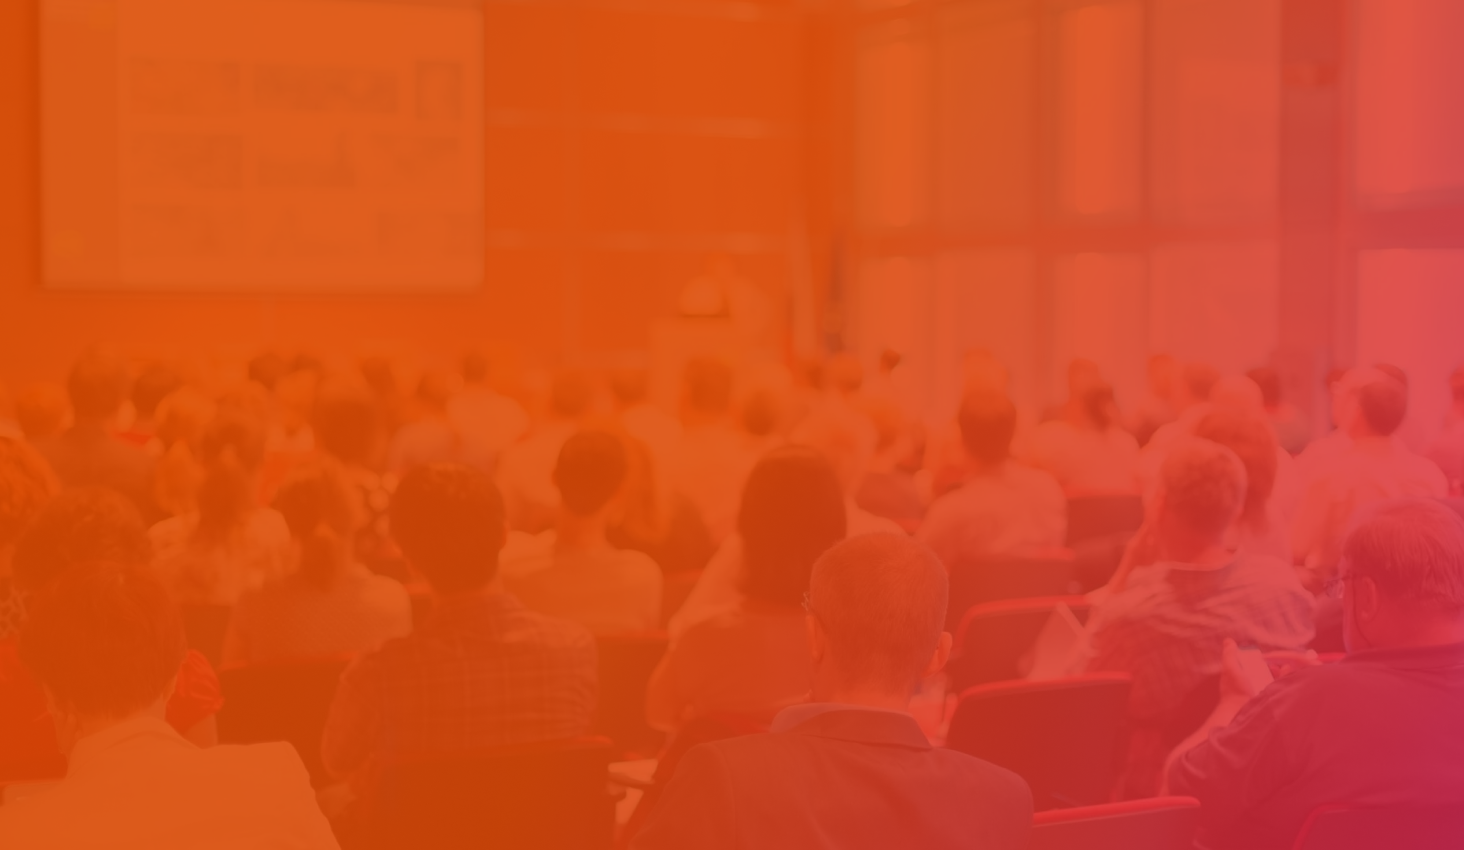
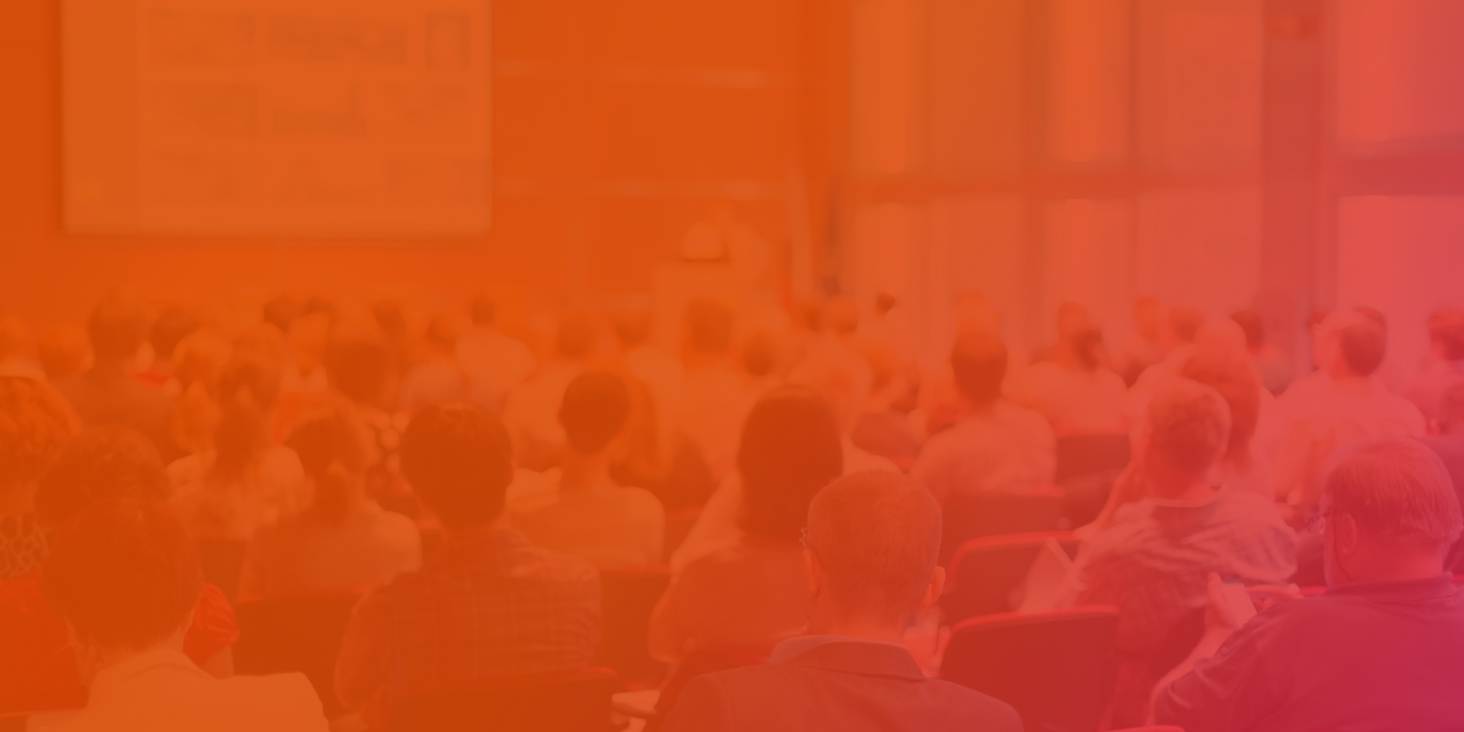
styles: add teachers

diff --git a/index.html b/index.html
@@ -35,7 +35,7 @@
 
     <main>
       <section id="intro">
-        <div class="intro-content" >
+        <div class="intro-content">
           <div>
             <h2>Semana da Computação</h2>
             <h1>Explorando a inovação</h1>
@@ -49,6 +49,47 @@
           <img src="./images/image-intro.png" alt="" />
         </div>
       </section>
+
+      <section id="teachers">
+        <div class="teachers-content" >
+          <h2>Conheça um pouco dos palestrantes </h2>
+          <h1>PROFESSORES ESPECIALIZADOS</h1>
+
+          <div class="all-teachers" >
+            <div class="card-teacher">
+              <img src="./images/cido.png" alt="">
+
+              <div class="teacher-content" >
+                <strong>APARECIDO SILVA</strong>
+                <p>Especialista em programação</p>
+                <p>Compentencias: C, Javascript</p>
+              </div>
+            </div>
+
+            <div class="card-teacher">
+              <img src="./images/cido.png" alt="">
+
+              <div class="teacher-content" >
+                <strong>APARECIDO SILVA</strong>
+                <p>Especialista em programação</p>
+                <p>Compentencias: C, Javascript</p>
+              </div>
+            </div>
+
+            <div class="card-teacher">
+              <img src="./images/cido.png" alt="">
+
+              <div class="teacher-content" >
+                <strong>APARECIDO SILVA</strong>
+                <p>Especialista em programação</p>
+                <p>Compentencias: C, Javascript</p>
+              </div>
+            </div>
+          </div>
+        </div>
+      </section>
+
+      <img class="image-background" src="./images/image-background-intro.png" alt="">
     </main>
   </body>
 </html>

diff --git a/styles/styles.css b/styles/styles.css
@@ -1,7 +1,12 @@
-body {
-    background-image: url("../images/image-background-intro.png");
-    background-repeat: no-repeat;
-    background-size: 100% 100%;
+.image-background {
+    position: absolute;
+    top: 0;
+    right: 0;
+    left: 0;
+    width: 100%;
+    height: 650px;
+    z-index: -1;
+    object-fit: cover;
 }
 
 header {
@@ -46,7 +51,7 @@ header button:hover {
 }
 
 #intro .intro-content h1 {
-    font-size: 4rem;
+    font-size: 3.5rem;
     color: var(--white);
 }
 
@@ -55,3 +60,43 @@ header button:hover {
     color: var(--white);
 }
 
+#intro .intro-content img {
+    width: 25rem;
+}
+
+#teachers {
+    margin-top: 4rem;
+}
+
+#teachers .teachers-content h2 {
+    color: var(--red);
+}
+
+#teachers .teachers-content {
+    max-width: 1200px;
+    margin: 0 auto;
+}
+
+#teachers .all-teachers {
+    display: grid;
+    grid-template-columns: repeat(3, 1fr);
+
+    margin-top: 1rem;
+    gap: 3rem;
+}
+
+#teachers .card-teacher {
+    display: flex;
+    align-items: center;
+    background: var(--white);
+
+    padding: 1rem;
+    border-radius: 8px;
+    box-shadow: 4px 4px 4px rgba(0, 0, 0, 0.25); 
+}
+
+#teachers .card-teacher img {
+    width: 80px;
+    height: 80px;
+    border-radius: 50%;
+}
